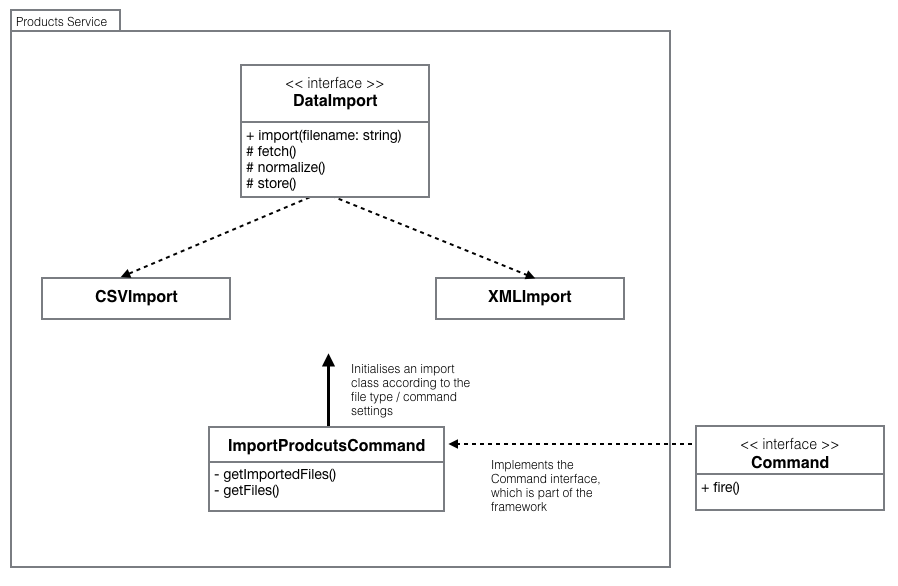
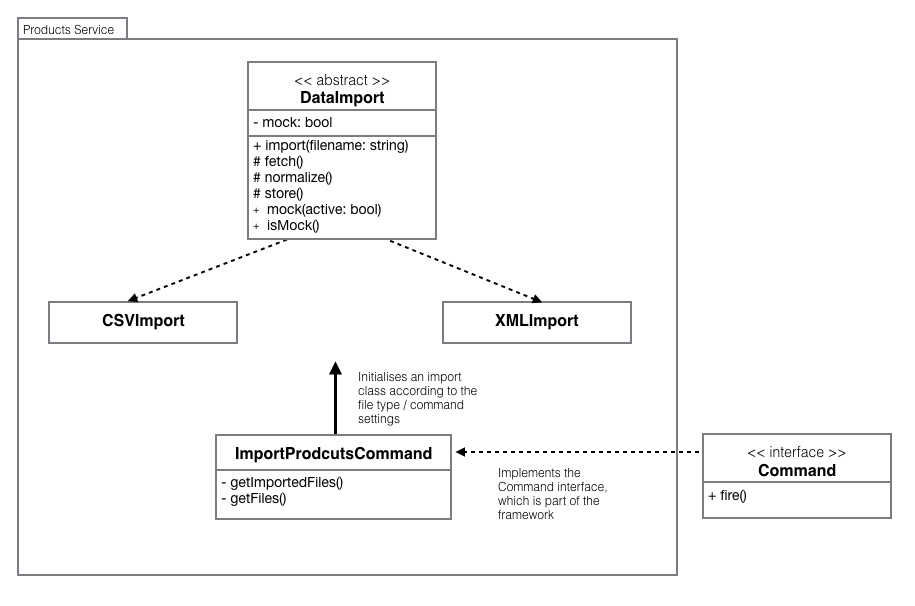
readme update diagram

Changed region(s): [[0.0, 0.0, 0.9978, 0.9829]]

diff --git a/README.md b/README.md
@@ -22,3 +22,9 @@ The service will have a command that will check if there are any files that need
 If a file hasn't been imported, we will check its type and call a matching import class to handle the fetching, normalizing and storing of the data
 
 <img src="classDiagram.png" alt="class diagram" />
+
+<u>Planned Testing</u>
+
+Testing the command will be done using a <i>mock</i> directory that contains files similar to the files we plan to import
+
+The test will only check the normalization stage, as we can assume that the framework knows how to store data in the DB
